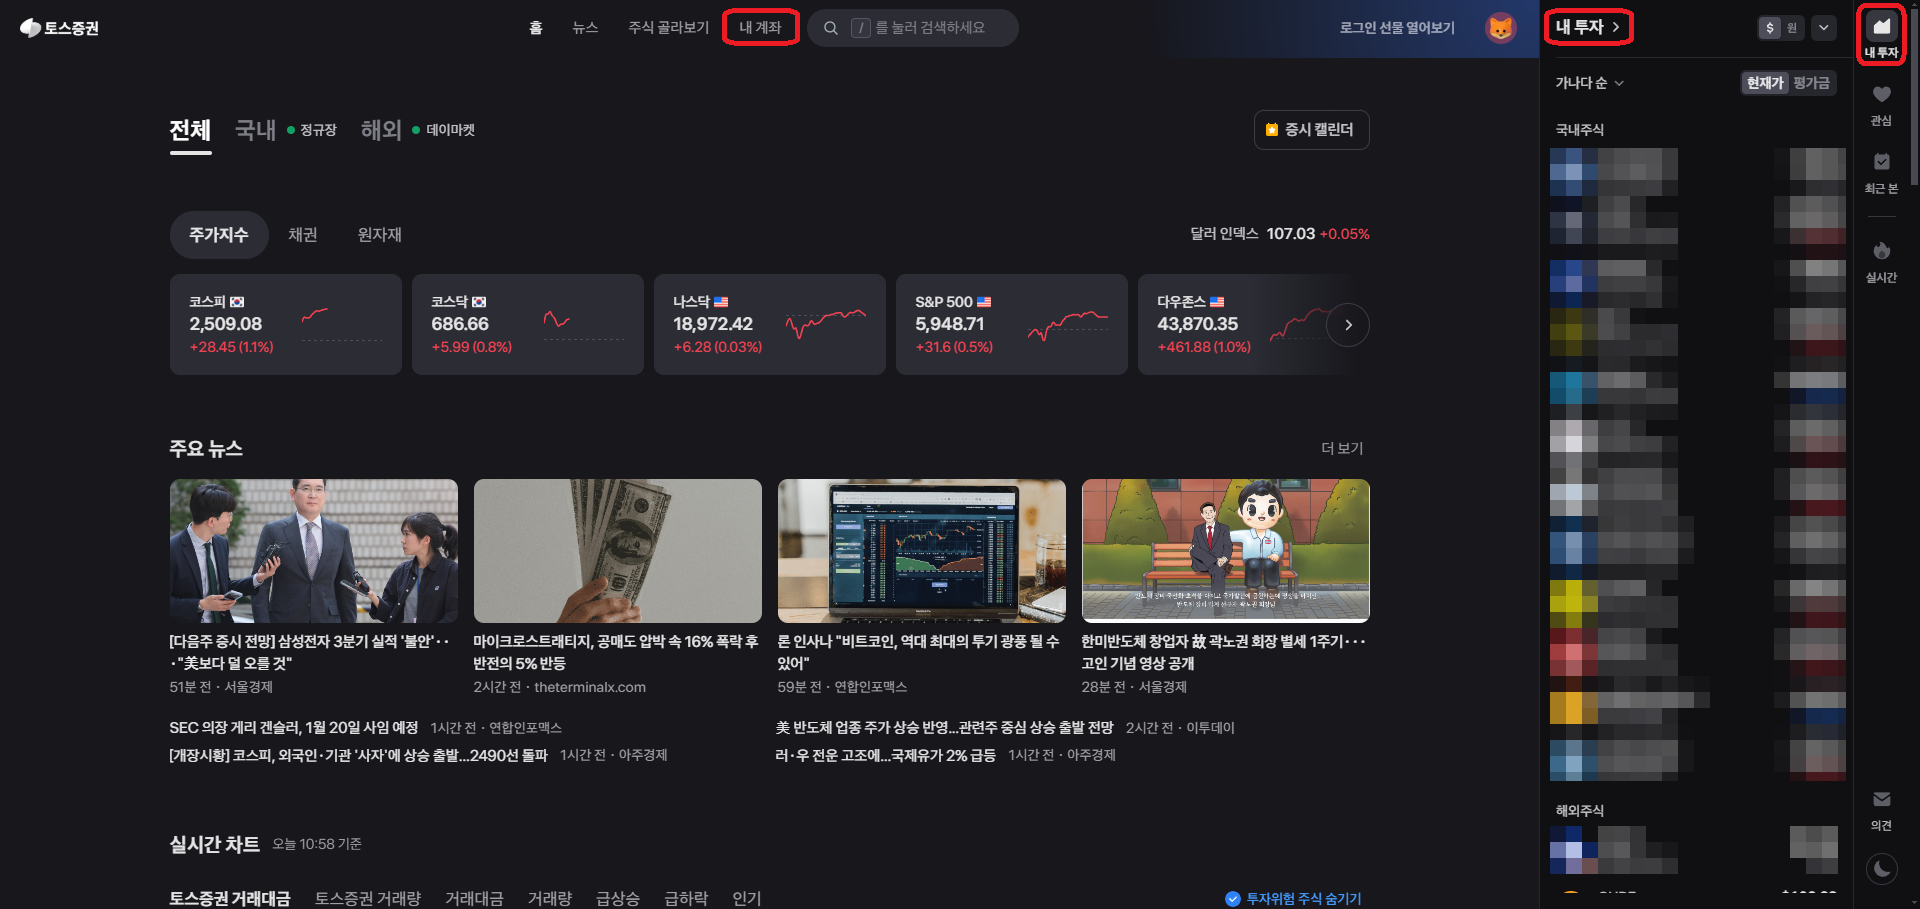
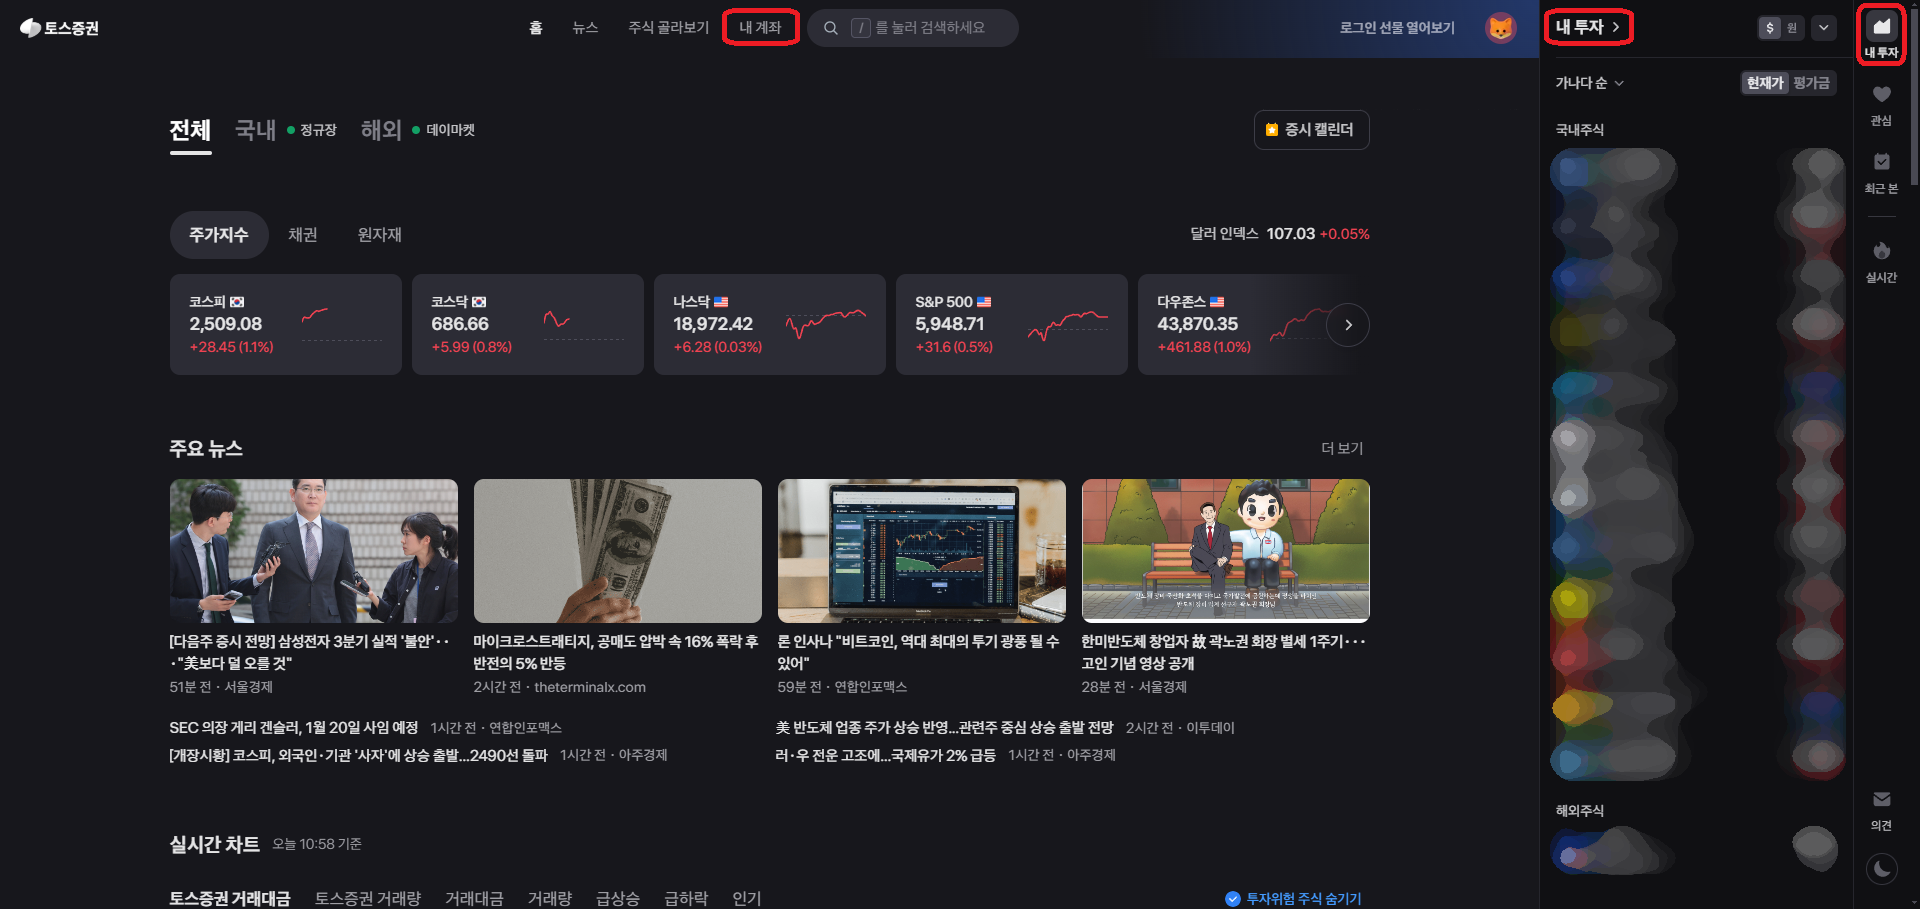
fix)imageupload) modal 도움말 구현

diff --git a/rud_boot/src/main/rud_react/src/views/home.jsx b/rud_boot/src/main/rud_react/src/views/home.jsx
@@ -55,23 +55,44 @@ const Home = () => {
     return (
         <div className="home-container">
             <Modal
+                className="upload-info"
                 isOpen={isModalOpen}
                 onRequestClose={closeModal}
                 contentLabel="안내 메시지"
-                className="upload-info"
                 overlayClassName="modal-overlay"
                 shouldCloseOnOverlayClick={false}>
                 <h2>도움말</h2>
-                <p>이미지 업로드 예시</p>
-    
-                <div className="info-image-container">
-                <img className="gfp-info" src={gofullpagetestImage}/>
-                    <p className="info-text">이미지를 업로드한 후, 필요한 정보를 입력하세요.</p>
-                </div>
-    
+                <p>
+                    1. chrome 웹 스토어에서{' '}
+                    <a
+                        href="https://chromewebstore.google.com/detail/gofullpage-full-page-scre/fdpohaocaechififmbbbbbknoalclacl?hl=ko&utm_source=ext_sidebar"
+                        target="_blank"
+                        rel="noopener noreferrer">
+                        Gofullpage
+                    </a>
+                    확장 프로그램 설치
+                </p>
+                <br />
+                <p>
+                2. 원하는 페이지에서 우측 상단 확장프로그램 모음 → gofullpage 아이콘을 클릭 후 Download image (PNG)로 캡쳐
+                </p><br />
+                <img className="info-image-1" src={gofullpagetestImage} />
+                <br />
+                <br />
+                <p>
+                3. 내 계좌 → 자산 페이지에서 우측 사이드 바 닫은 후 캡쳐.
+                </p><br />
+                <img className="info-image-2" src={cash_blurImage} />
+                <br />
+                <br />
+                <p>
+                3. 우측 사이드 바 → 내 투자 페이지에서 사이드 바 닫은 후 캡쳐
+                </p><br />
+                <img className="info-image-3" src={stocks_blurImage} />
+
                 <button className="info-button" onClick={closeModal}>확인</button>
             </Modal>
-
+    
             {
                 isImageUploadVisible
                     ? (<ImageUpload onSave={handleSave}/>)

diff --git a/rud_boot/src/main/rud_react/src/assets/css/home.scss b/rud_boot/src/main/rud_react/src/assets/css/home.scss
@@ -10,8 +10,9 @@
     color: #EAECEF;
 }
 
-.upload-info {
-    width: 1000px;
+.upload-info { /* 도움말 Modal */
+    width: 1200px;
+    height: 80%;
     padding: 20px;
     background: #1f2540;
     border-radius: 10px;
@@ -19,25 +20,39 @@
     line-height: 2;
     position: relative;
     margin: auto;
-    top: 20%;
+    top: 10%;
+    overflow-y: auto; /* 스크롤을 활성화 */
 
+    .info-image-1 {
+        width: 400px;
+        height: auto;
+    }
+
+    .info-image-2,
+    .info-image-3 {
+        width: 600px;
+    }
+    
+    .upload-info:focus {
+        outline: none;
+    }
+    
     .info-button {
+        position: absolute;
+        bottom: 20px;
+        right: 20px;
         border-color: transparent;
         border-radius: 10px;
-        padding: 4px 8px;
+        padding: 10px 16px;
         background-color: #3254ce;
         color: #EAECEF;
         font-weight: 600;
         cursor: pointer;
-
+    
         &:hover {
             background-color: #213a9680;
         }
     }
-}
-
-.upload-info:focus {
-    outline: none;
 }
 
 .modal-overlay {

diff --git a/rud_boot/src/main/rud_react/src/App.css b/rud_boot/src/main/rud_react/src/App.css
@@ -40,3 +40,8 @@ html, body {
     transform: rotate(360deg);
   }
 }
+
+a { /*modal Gofullpage 하이퍼링크 */
+  color: blue; /* 링크 기본 색상 */
+  text-decoration: none; /* 밑줄 제거 */
+}
